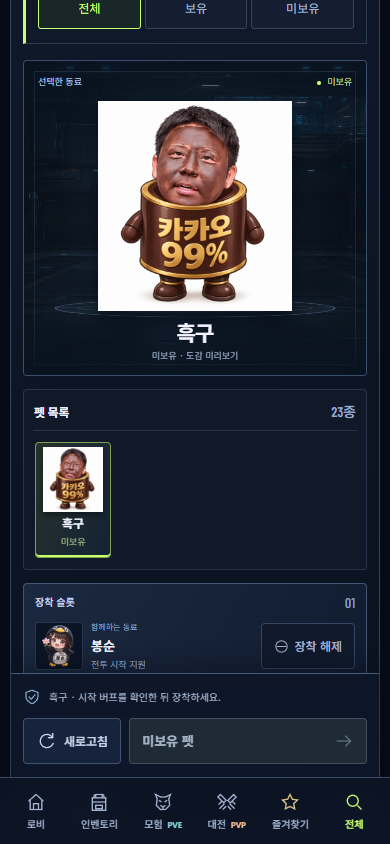
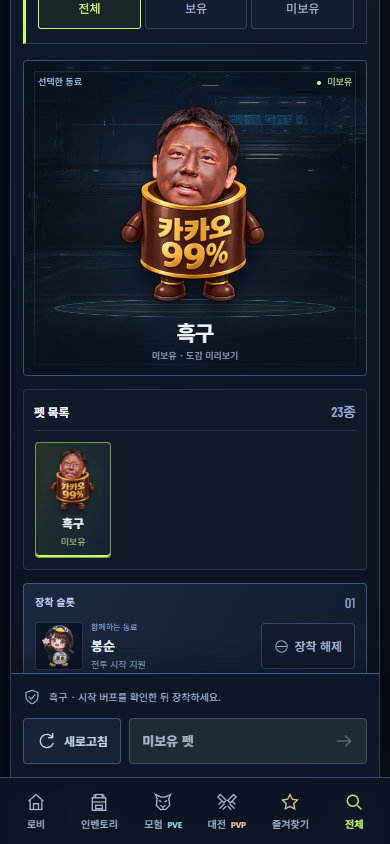
fix: use transparent Heukgu pet art and verify binary hashes [CF-Pages-Skip]

Changed region(s): [[0.2462, 0.0924, 0.7692, 0.3697], [0.0923, 0.5237, 0.2769, 0.6161]]

diff --git a/css/pet-equipment-v1.css b/css/pet-equipment-v1.css
@@ -54,8 +54,8 @@
 @media(max-width:1150px){.pe-workspace{grid-template-columns:188px minmax(240px,1fr) 264px;gap:12px}.pet-equipment{padding:20px}.pe-card{gap:6px;padding-inline:6px}.pe-card-art{width:51px}.pe-card-art img{width:59px}.pe-card-identity strong{font-size:13px}.pe-hero{height:320px}.pe-stage{min-height:460px}.pe-footer .pe-primary{min-width:180px}}
 @media(max-width:900px){.pe-workspace{grid-template-columns:176px minmax(0,1fr)}.pe-stage{grid-column:2;grid-row:1;min-height:440px}.pe-inspector{grid-column:1/-1;display:grid;grid-template-columns:240px minmax(0,1fr);gap:22px;padding-top:4px}.pe-equipped{align-self:start}.pe-detail-heading{margin-bottom:10px}.pe-detail-heading h2{font-size:21px}.pe-detail .pe-help{margin-top:10px!important}.pe-hero{height:315px}.pe-collection-note{font-size:9px}.pe-footer .pe-primary{min-width:166px}.pe-heading p{font-size:11px}}
 @media(max-width:600px){
-/* Keep the approved opaque Heukgu portrait clear of the existing stage caption. */
-.pe-hero[src$="/pet-heukgu-approved.png"]{height:210px;max-height:210px}
+/* Keep the approved Heukgu silhouette clear of the existing stage caption. */
+.pe-hero[src$="/pet-heukgu-transparent-v2.png"]{height:210px;max-height:210px}
 .pet-page{padding:10px 10px 18px}.pet-page-nav{margin-bottom:8px;gap:8px}.pet-page-nav span{font-size:10px}.pet-page-nav a{font-size:11px;min-height:38px}
 .pet-equipment{padding:16px 12px 0;border-radius:5px;font-size:12px}.pe-heading{gap:12px;margin-bottom:12px;padding-bottom:14px;align-items:center}.pe-heading-title{gap:10px}.pe-heading-icon{width:37px;height:42px}.pe-heading-icon .pe-icon{width:23px;height:23px}.pe-heading h1{font-size:23px;line-height:1.35}.pe-heading p{font-size:10px;max-width:215px;line-height:1.65;margin-top:3px}.pe-eyebrow{font-size:9px}.pe-capacity{padding-left:10px}.pe-capacity>span{font-size:9px}.pe-capacity i{font-size:25px}.pe-capacity em{font-size:15px}
 .pe-notice{display:block;padding:8px 10px;margin-bottom:12px!important;line-height:1.7;font-size:10px}.pe-notice b{display:inline;padding-right:8px;margin-right:7px;font-size:9px}.pe-notice span{display:inline}

diff --git a/docs/qa/pet-heukgu-live-20261025/README.md b/docs/qa/pet-heukgu-live-20261025/README.md
@@ -2,8 +2,12 @@
 
 사용자 `흑구로해서 펫 라이브 반영해`에 따라 **흑구 / PET-HEUKGU**를 승인 원화 카탈로그·펫 도감·OWNER 등록된 펫 목록에 추가한다.
 
[2 lines of base64/hex data omitted]
+
+흰 배경 원본 `pet-heukgu-approved.png`와 이전 승인 기록은 이력으로 보존하며 현재 표시로 되돌리지 않는다. 첫 소스 `b8f776440`, Pages `b10fe4c8`의 흰 배경 공개를 사용자 정정에 따라 교체한다. 승인·프롬프트·사진 참조 원본과 흰 배경 PNG는 Git에 보존하고 배포 대상에서 제외한다.
 
 버프 수치·획득·실전 효과는 미정/비활성. 기존 펫 정의·개봉 풀·잠재력·계정 보유/편성/재화는 보존한다. 일회 키 `ops:pet-heukgu-registration:20261025:v1`. 등록은 기본 ROLLBACK, revision/원문 해시 확인·행 잠금·CAS·동일 거래 감사와 영수증·재실행 중복 방지를 사용한다. 공개 원본 해시 확인 후 적용한다.
 
 깨끗한 기존 `C:/Users/User/Downloads/cnine-avatar-bongsoon-20260919/site`를 재사용하며 의존성/프로젝트 전체 복사본을 만들지 않는다. 검수·배포·운영 영수증은 완료 후 아래에 기록한다.
+
+PC 1440px·모바일 390px/320px에서 실제 도감과 OWNER 관리 컴포넌트를 로컬 DB fixture로 확인했다. 흑구 모바일 표시 높이를 210px로 맞춰 이름과 겹침을 해소했다. 원본 이미지는 크기 변경·재압축하지 않았다. 이는 운영 로그인 검수가 아니다. Pages 20,000개 한도에서 기존 펫 구현 문서 한 개와 흰 배경 원본을 Git에 보존하면서 배포 대상에서만 제외했다.
